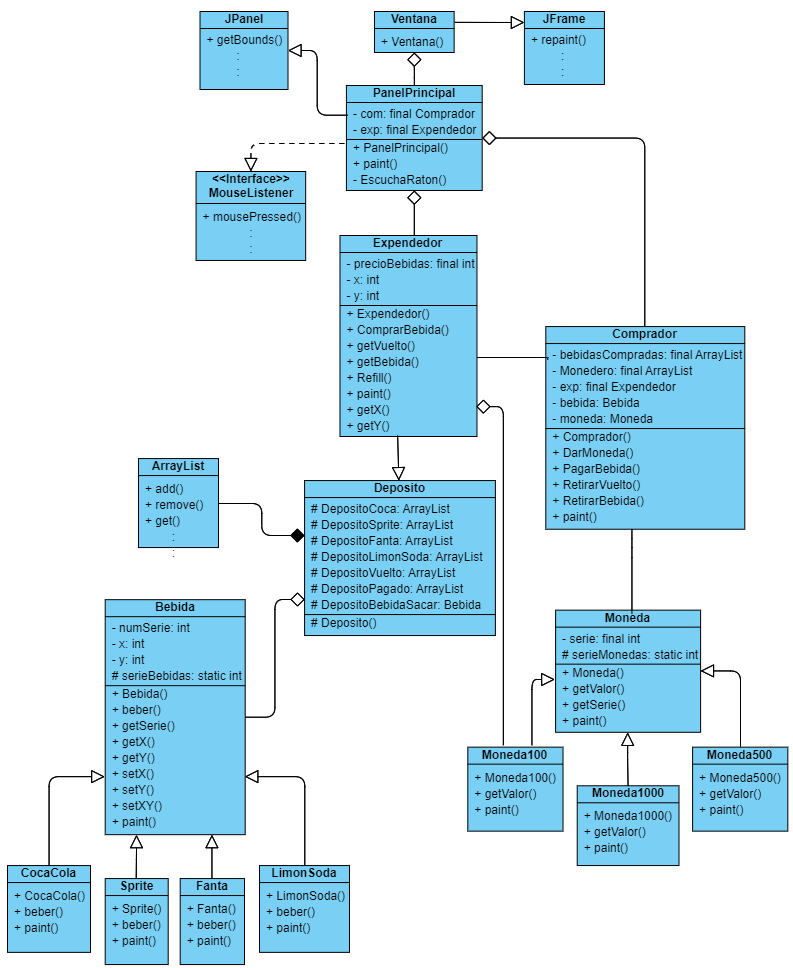
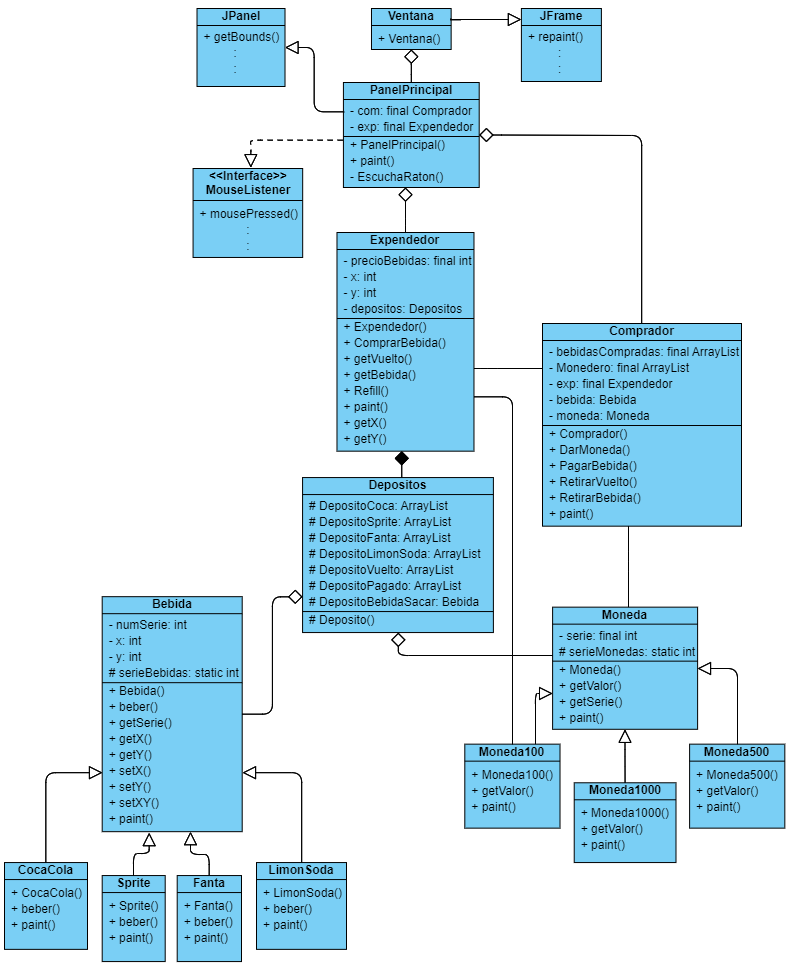
Mejoras con respecto a depositos y UML

diff --git a/Tarea3/src/tarea3/Expendedor.java b/Tarea3/src/tarea3/Expendedor.java
@@ -4,9 +4,10 @@ import javax.swing.*;
 import java.awt.*;
 
 
-class Expendedor extends Deposito{
+class Expendedor{
     // PROPIEDADES
     private final int precioBebidas;
+    private final Depositos depositos;
     private int x;
     private int y;
     // METODOS
@@ -16,108 +17,108 @@ class Expendedor extends Deposito{
             throw new PagoIncorrectoException("Inserte moneda valida");
             
         }else if(moneda.getValor() < precioBebidas){
-            DepositoVuelto.add(moneda);
+            depositos.DepositoVuelto.add(moneda);
             throw new PagoInsuficienteException("Le faltan monedas");
             
-        }else if(DepositoBebidaSacar != null){
-            DepositoVuelto.add(moneda);
+        }else if(depositos.DepositoBebidaSacar != null){
+            depositos.DepositoVuelto.add(moneda);
             throw new DepositoBebidaSacarException("Retire su bebida");
         }
         
         int Aux = (moneda.getValor()-precioBebidas)/100;
         switch(BebidaElegida){
             case 1 -> {
-                if(DepositoCoca.isEmpty()){
-                    DepositoVuelto.add(moneda);
+                if(depositos.DepositoCoca.isEmpty()){
+                    depositos.DepositoVuelto.add(moneda);
                     throw new NoHayBebidaException("No quedan CocaColas");
                 }else{
-                    DepositoPagado.add(moneda);
+                    depositos.DepositoPagado.add(moneda);
                     for(int i=0 ;  i<Aux ; i++){
-                        DepositoVuelto.add(new Moneda100(Moneda.serieMonedas));
+                        depositos.DepositoVuelto.add(new Moneda100(Moneda.serieMonedas));
                         Moneda.serieMonedas = Moneda.serieMonedas+1;
                     }
-                    DepositoBebidaSacar = DepositoCoca.remove(0);
+                    depositos.DepositoBebidaSacar = depositos.DepositoCoca.remove(0);
                 }
             }
             case 2 -> {
-                if(DepositoSprite.isEmpty()){
-                    DepositoVuelto.add(moneda);
+                if(depositos.DepositoSprite.isEmpty()){
+                    depositos.DepositoVuelto.add(moneda);
                     throw new NoHayBebidaException("No quedan Sprites");
                 }else{
-                    DepositoPagado.add(moneda);
+                    depositos.DepositoPagado.add(moneda);
                     for(int i=0 ;  i<Aux  ; i++){
-                        DepositoVuelto.add(new Moneda100(Moneda.serieMonedas));
+                        depositos.DepositoVuelto.add(new Moneda100(Moneda.serieMonedas));
                         Moneda.serieMonedas = Moneda.serieMonedas+1;
                     }
-                    DepositoBebidaSacar = DepositoSprite.remove(0);
+                    depositos.DepositoBebidaSacar = depositos.DepositoSprite.remove(0);
                 }
             }
             case 3 -> {
-                if(DepositoFanta.isEmpty()){
-                    DepositoVuelto.add(moneda);
+                if(depositos.DepositoFanta.isEmpty()){
+                    depositos.DepositoVuelto.add(moneda);
                     throw new NoHayBebidaException("No quedan Fantas");
                 }else{
-                    DepositoPagado.add(moneda);
+                    depositos.DepositoPagado.add(moneda);
                     for(int i=0 ;  i<Aux  ; i++){
-                        DepositoVuelto.add(new Moneda100(Moneda.serieMonedas));
+                        depositos.DepositoVuelto.add(new Moneda100(Moneda.serieMonedas));
                         Moneda.serieMonedas = Moneda.serieMonedas+1;
                     }
-                    DepositoBebidaSacar = DepositoFanta.remove(0);
+                    depositos.DepositoBebidaSacar = depositos.DepositoFanta.remove(0);
                 }
             }
             case 4 -> {
-                if(DepositoLimonSoda.isEmpty()){
-                    DepositoVuelto.add(moneda);
+                if(depositos.DepositoLimonSoda.isEmpty()){
+                    depositos.DepositoVuelto.add(moneda);
                     throw new NoHayBebidaException("No quedan LimonSoda");
                 }else{
-                    DepositoPagado.add(moneda);
+                    depositos.DepositoPagado.add(moneda);
                     for(int i=0 ;  i<Aux  ; i++){
-                        DepositoVuelto.add(new Moneda100(Moneda.serieMonedas));
+                        depositos.DepositoVuelto.add(new Moneda100(Moneda.serieMonedas));
                         Moneda.serieMonedas = Moneda.serieMonedas+1;
                     }
-                    DepositoBebidaSacar = DepositoLimonSoda.remove(0);
+                    depositos.DepositoBebidaSacar = depositos.DepositoLimonSoda.remove(0);
                 }
             }
         }
     }
     
     public Moneda getVuelto() throws DepositoVueltoVacioException{
-        if(DepositoVuelto.isEmpty()){
+        if(depositos.DepositoVuelto.isEmpty()){
             throw new DepositoVueltoVacioException("No tiene vuelto que retirar");
          }else{
-            return DepositoVuelto.remove(0);
+            return depositos.DepositoVuelto.remove(0);
          }
     }
     
     public Bebida getBebida(){
-        if(DepositoBebidaSacar == null){
+        if(depositos.DepositoBebidaSacar == null){
             throw new DepositoBebidaVacioException("No tiene bebida que retirar");
         }else{
-            Bebida aux = DepositoBebidaSacar;
-            DepositoBebidaSacar = null;
+            Bebida aux = depositos.DepositoBebidaSacar;
+            depositos.DepositoBebidaSacar = null;
             return aux;
         }
     }
     
     public void Refill(){
-        for(int i = DepositoCoca.size(); i< 5 ; i++){
+        for(int i = depositos.DepositoCoca.size(); i< 5 ; i++){
             CocaCola aux = new CocaCola(Bebida.serieBebidas);
-            DepositoCoca.add(aux);
+            depositos.DepositoCoca.add(aux);
             Bebida.serieBebidas = Bebida.serieBebidas+1;
         }
-        for(int i = DepositoSprite.size(); i< 5; i++){
+        for(int i = depositos.DepositoSprite.size(); i< 5; i++){
             Sprite aux = new Sprite(Bebida.serieBebidas);
-            DepositoSprite.add(aux);
+            depositos.DepositoSprite.add(aux);
             Bebida.serieBebidas = Bebida.serieBebidas+1;
         }
-        for(int i = DepositoFanta.size(); i< 5; i++){
+        for(int i = depositos.DepositoFanta.size(); i< 5; i++){
             Fanta aux = new Fanta(Bebida.serieBebidas);
-            DepositoFanta.add(aux);
+            depositos.DepositoFanta.add(aux);
             Bebida.serieBebidas = Bebida.serieBebidas+1;
         }
-        for(int i = DepositoLimonSoda.size(); i< 5 ; i++){
+        for(int i = depositos.DepositoLimonSoda.size(); i< 5 ; i++){
             LimonSoda aux = new LimonSoda(Bebida.serieBebidas);
-            DepositoLimonSoda.add(aux);
+            depositos.DepositoLimonSoda.add(aux);
             Bebida.serieBebidas = Bebida.serieBebidas+1;
         }
     }
@@ -158,44 +159,44 @@ class Expendedor extends Deposito{
         Font newFont = new Font("Calibri", Font.BOLD, 15);
         g.setFont(newFont);
         // Todas las Bebidas Disponibles
-        for(int j = 0; j < DepositoCoca.size() ; j++){
-            DepositoCoca.get(j).setXY(x+95, y+591-((j+1)*100));
-            DepositoCoca.get(j).paint(g, panel);
+        for(int j = 0; j < depositos.DepositoCoca.size() ; j++){
+            depositos.DepositoCoca.get(j).setXY(x+95, y+591-((j+1)*100));
+            depositos.DepositoCoca.get(j).paint(g, panel);
         }
-        for(int j = 0; j < DepositoSprite.size() ; j++){
-            DepositoSprite.get(j).setXY(x+175, y+591-((j+1)*100));
-            DepositoSprite.get(j).paint(g, panel);
+        for(int j = 0; j < depositos.DepositoSprite.size() ; j++){
+            depositos.DepositoSprite.get(j).setXY(x+175, y+591-((j+1)*100));
+            depositos.DepositoSprite.get(j).paint(g, panel);
         }
-        for(int j = 0; j < DepositoFanta.size() ; j++){
-            DepositoFanta.get(j).setXY(x+255, y+591-((j+1)*100));
-            DepositoFanta.get(j).paint(g, panel);
+        for(int j = 0; j < depositos.DepositoFanta.size() ; j++){
+            depositos.DepositoFanta.get(j).setXY(x+255, y+591-((j+1)*100));
+            depositos.DepositoFanta.get(j).paint(g, panel);
         }
-        for(int j = 0; j < DepositoLimonSoda.size() ; j++){
-            DepositoLimonSoda.get(j).setXY(x+335, y+591-((j+1)*100));
-            DepositoLimonSoda.get(j).paint(g, panel);
+        for(int j = 0; j < depositos.DepositoLimonSoda.size() ; j++){
+            depositos.DepositoLimonSoda.get(j).setXY(x+335, y+591-((j+1)*100));
+            depositos.DepositoLimonSoda.get(j).paint(g, panel);
         }
         // Bebida Comprada
-        if(DepositoBebidaSacar!=null){
-            DepositoBebidaSacar.setXY(x+464, y+500);
-            DepositoBebidaSacar.paint(g, panel);
+        if(depositos.DepositoBebidaSacar!=null){
+            depositos.DepositoBebidaSacar.setXY(x+464, y+500);
+            depositos.DepositoBebidaSacar.paint(g, panel);
         }
         // Vuelto
-        for(int j = 0; j < DepositoVuelto.size() ; j++){
+        for(int j = 0; j < depositos.DepositoVuelto.size() ; j++){
             if(j<4){
-                DepositoVuelto.get(j).paint(g, x+425+(j*25), y+416, 49, 49, panel);
+                depositos.DepositoVuelto.get(j).paint(g, x+425+(j*25), y+416, 49, 49, panel);
             }else if(j<8){
-                DepositoVuelto.get(j).paint(g, x+425+((j-4)*25), y+382, 49, 49, panel);
+                depositos.DepositoVuelto.get(j).paint(g, x+425+((j-4)*25), y+382, 49, 49, panel);
             }else if(j<12){
-                DepositoVuelto.get(j).paint(g, x+425+((j-8)*25), y+348, 49, 49, panel);
+                depositos.DepositoVuelto.get(j).paint(g, x+425+((j-8)*25), y+348, 49, 49, panel);
             }
         }
     }
     
     public Expendedor(int numBebidas, int precioBebidas){
-        super(numBebidas);
+        depositos = new Depositos(numBebidas);
         x = 667;
         y = 28;
         this.precioBebidas = precioBebidas;
-        DepositoBebidaSacar = null;
+        depositos.DepositoBebidaSacar = null;
     }
 }

diff --git a/Tarea3/src/tarea3/Deposito.java b/Tarea3/src/tarea3/Deposito.java
@@ -3,7 +3,7 @@ package tarea3;
 import java.util.ArrayList;
 
 
-public abstract class Deposito {
+class Depositos {
     // PROPIEDADES
     protected ArrayList<LimonSoda> DepositoLimonSoda;
     protected  ArrayList<CocaCola> DepositoCoca;
@@ -13,7 +13,7 @@ public abstract class Deposito {
     protected ArrayList<Moneda> DepositoVuelto;
     protected ArrayList<Moneda> DepositoPagado;
     // METODOS
-    protected Deposito(int cantidad){
+    protected Depositos(int cantidad){
         DepositoCoca = new ArrayList<>();
         DepositoSprite = new ArrayList<>();
         DepositoFanta = new ArrayList<>();
